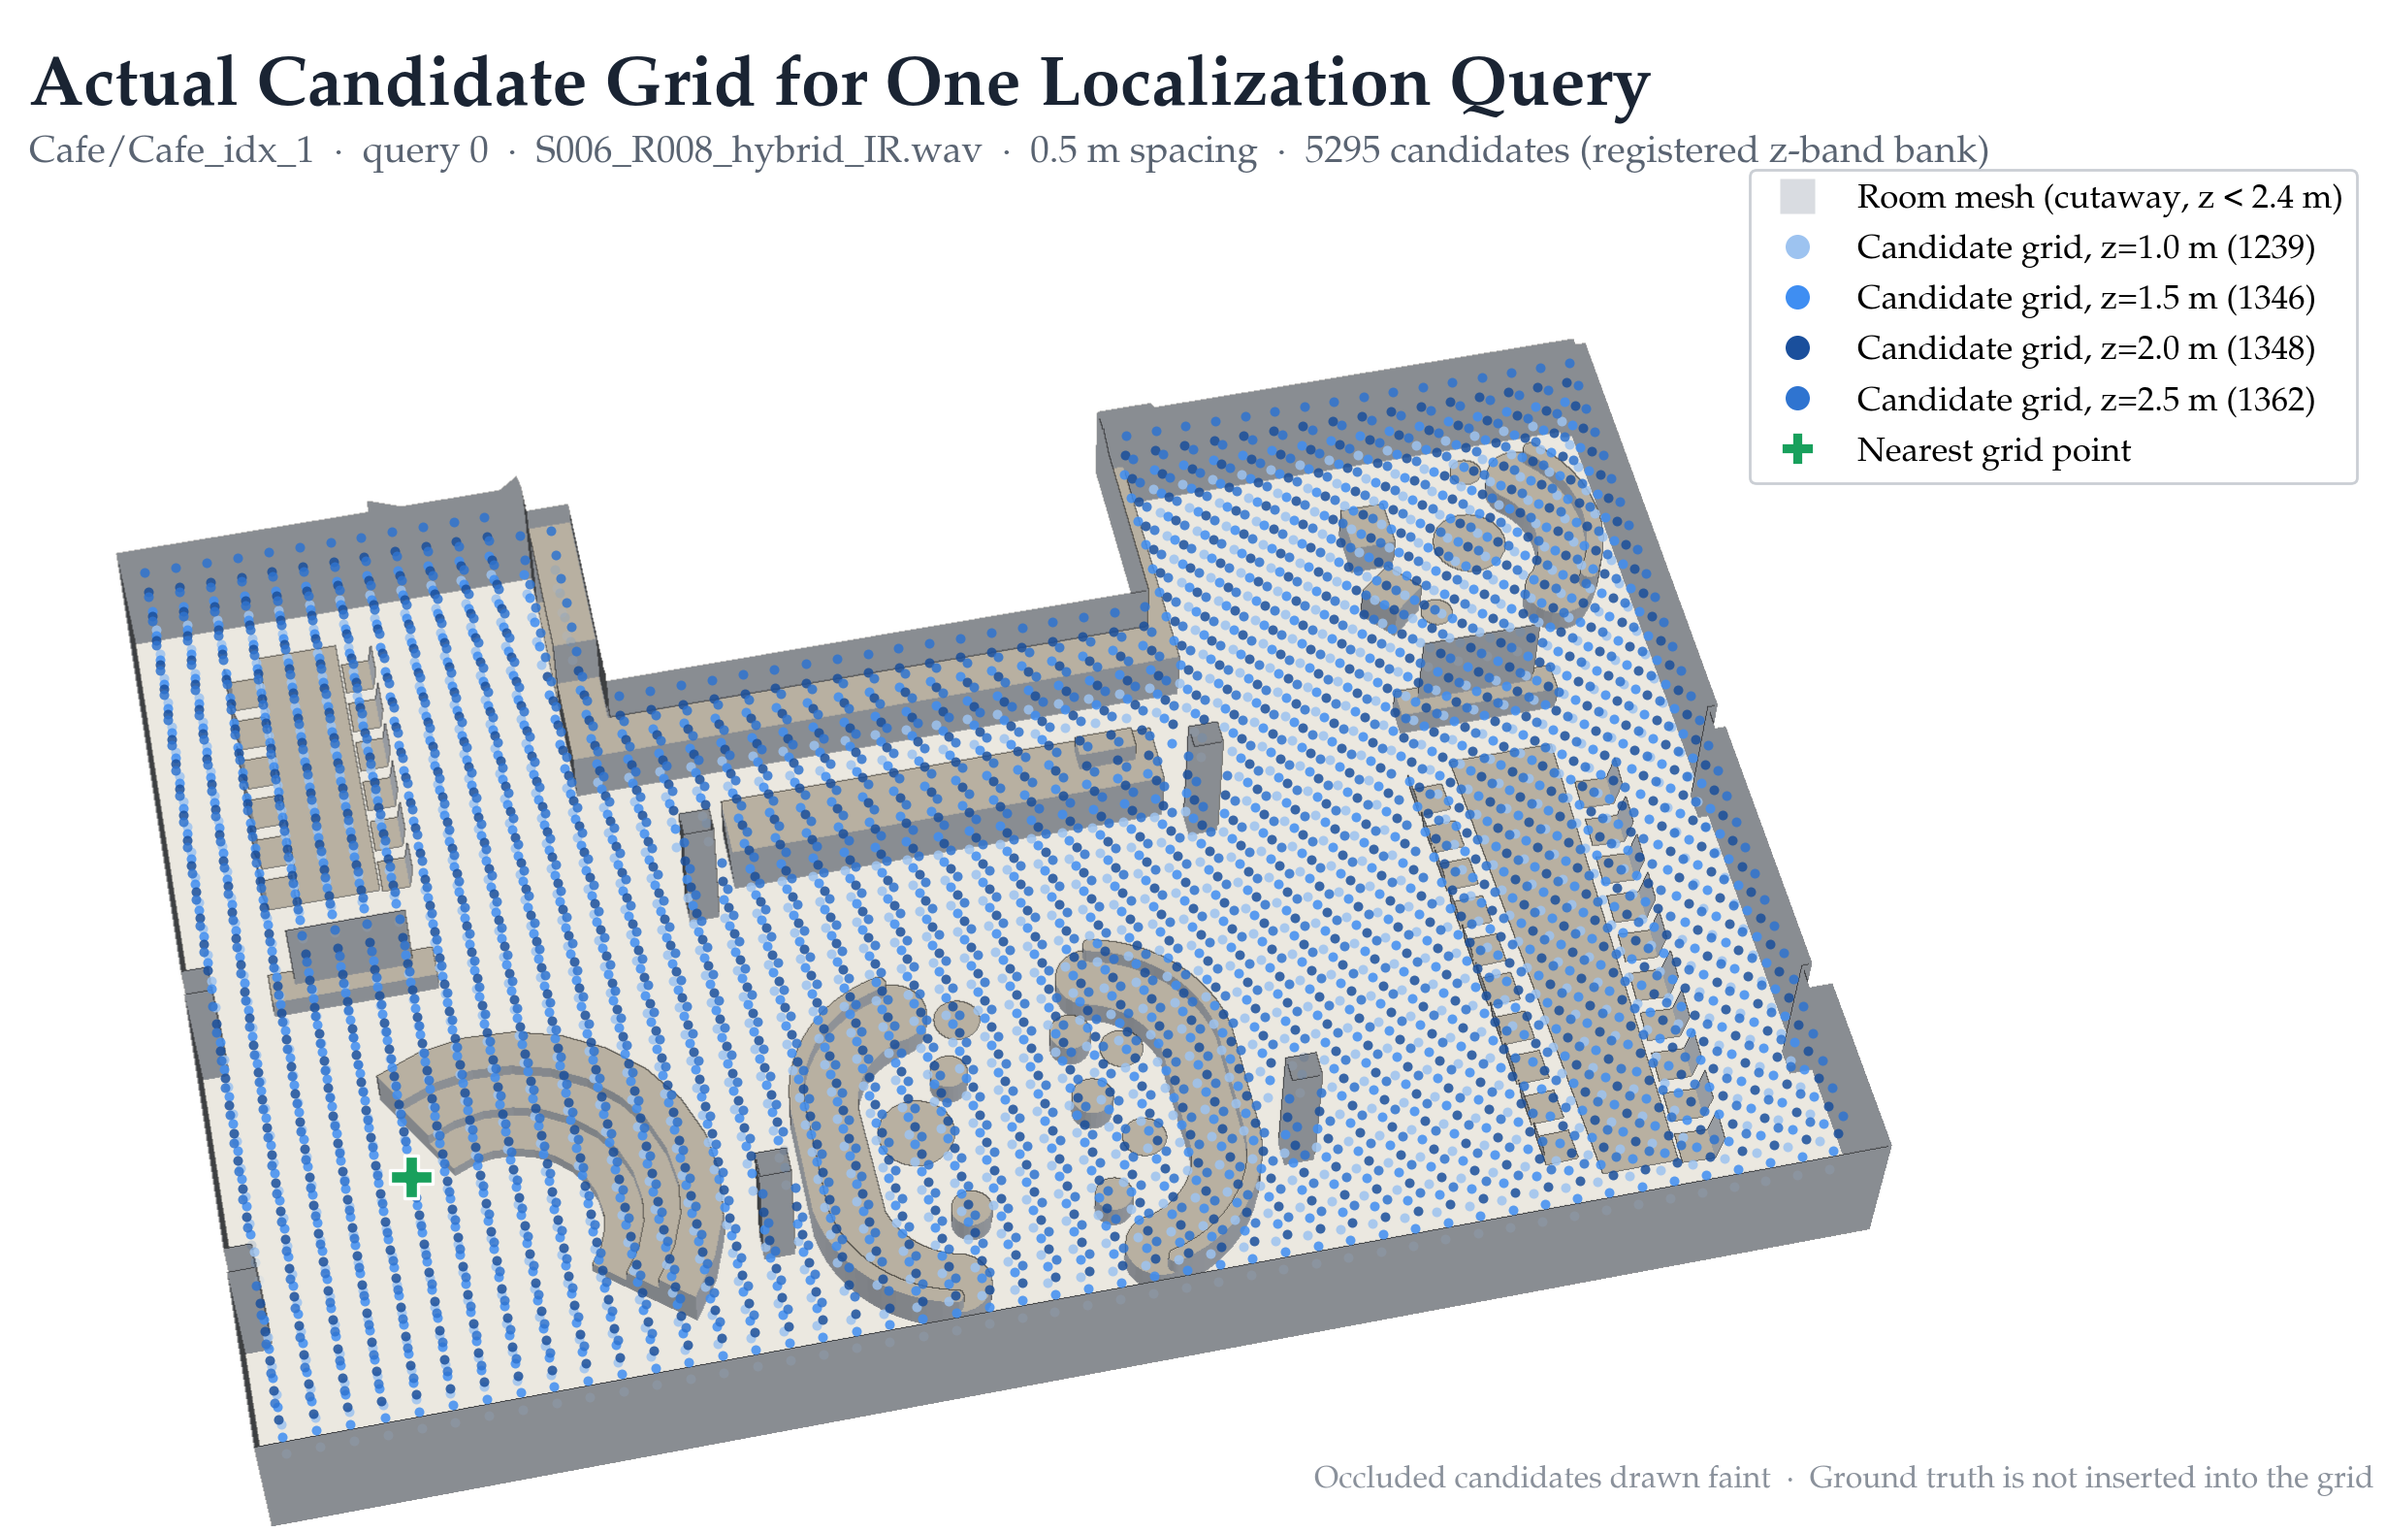
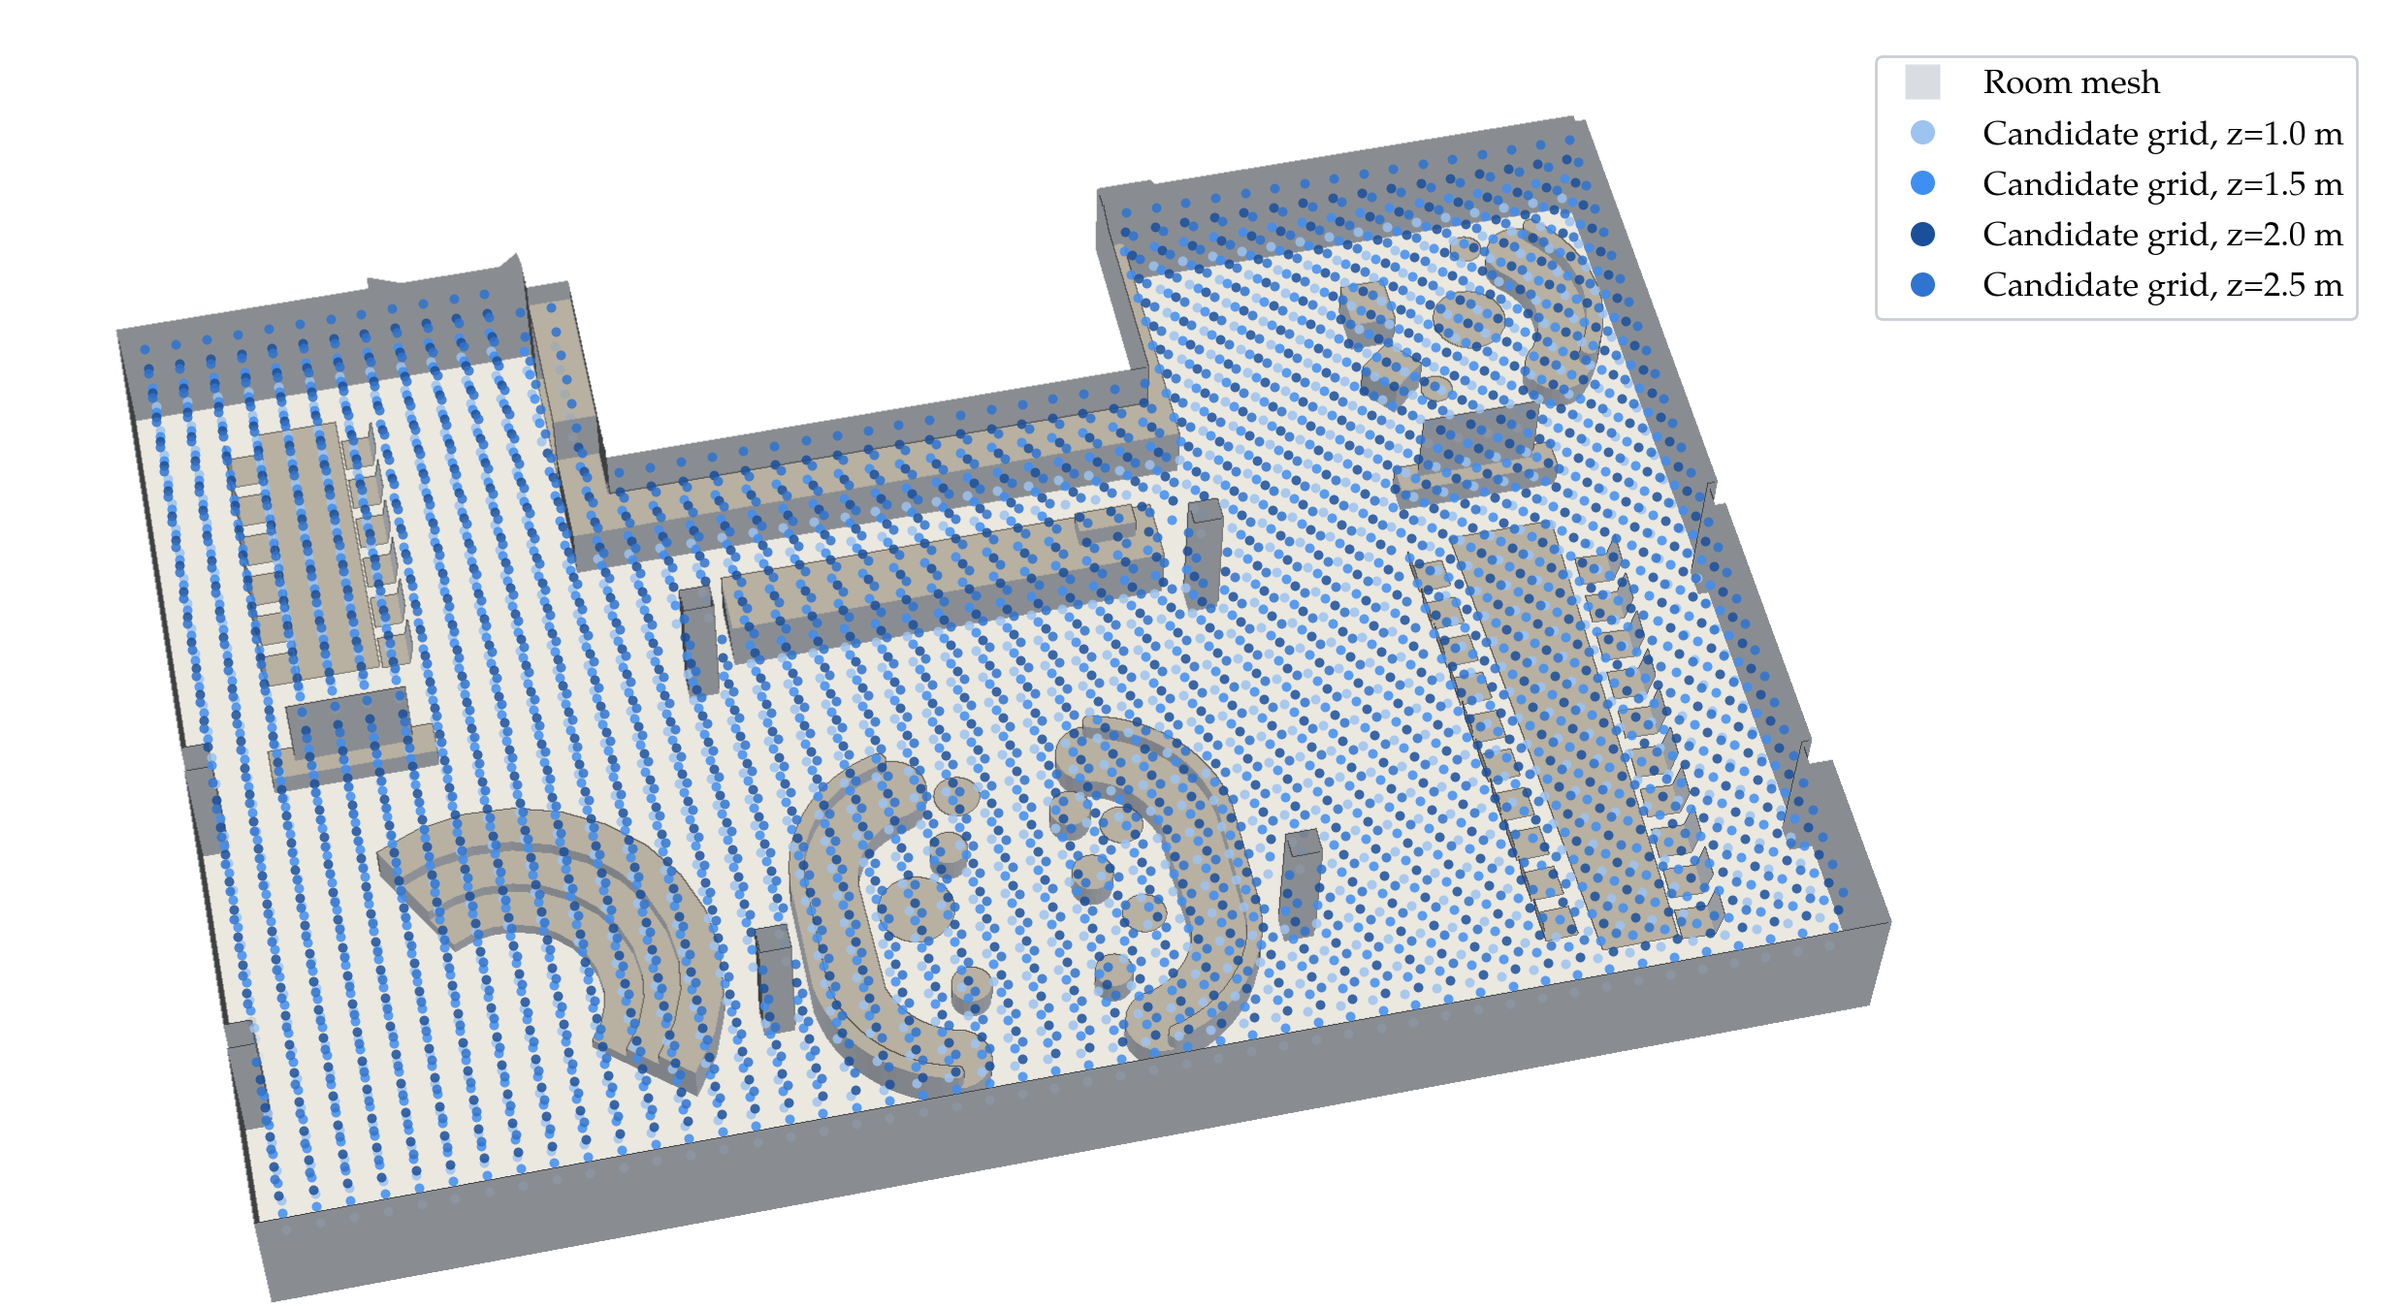
exp_22: candidate-grid figure — clean paper variant (no title/subtitle/footnote/markers; trimmed legend)

diff --git a/worklog/worklog_yixun/exp_22_loc_meshgrid_claude/candidate_grid_visualization/render_candidate_grid_paperview.py b/worklog/worklog_yixun/exp_22_loc_meshgrid_claude/candidate_grid_visualization/render_candidate_grid_paperview.py
@@ -71,8 +71,8 @@ def occluded(P, eps=0.06):
 # --- compose ---
 PAD_R = 460  # legend margin
 Wt = W + PAD_R
-fig = plt.figure(figsize=(Wt/200, (H+230)/200), dpi=200)
-ax = fig.add_axes([0, 0, W/Wt, H/(H+230)]); ax.axis('off')
+fig = plt.figure(figsize=(Wt/200, H/200), dpi=200)
+ax = fig.add_axes([0, 0, W/Wt, 1]); ax.axis('off')
 ax.imshow(img, interpolation='bilinear', zorder=1); ax.set_xlim(0,W); ax.set_ylim(H,0)
 
 zlevels = sorted(set(np.round(pts[:,2],3)))
@@ -86,16 +86,11 @@ for i in order:
     x, y, _ = project(pts[i:i+1]); zi = zlevels.index(round(float(pts[i,2]),3))
     a = 0.14 if occ[i] else 0.85
     ax.scatter(x, y, s=13, c=blues[zi], alpha=a, linewidths=0, zorder=3)
-x, y, _ = project(near[None])
-ax.scatter(x, y, marker='P', s=260, c='#18a05c', edgecolors='white', linewidths=1.2, zorder=7)
 
-fig.text(0.012, 0.965, 'Actual Candidate Grid for One Localization Query', fontsize=26, fontweight='bold', color='#1a2433', va='top')
-fig.text(0.012, 0.912, f"Cafe/Cafe_idx_1  ·  query 0  ·  S006_R008_hybrid_IR.wav  ·  0.5 m spacing  ·  {len(pts)} candidates (registered z-band bank)", fontsize=14, color='#5a6472', va='top')
-handles = [Line2D([],[], marker='s', ls='', mfc='#d9dce1', mec='none', ms=13, label='Room mesh (cutaway, z < 2.4 m)')]
-handles += [Line2D([],[], marker='o', ls='', mfc=blues[i], mec='none', ms=9, label=f"Candidate grid, z={z:.1f} m ({counts[z]})") for i, z in enumerate(zlevels)]
-handles += [Line2D([],[], marker='P', ls='', mfc='#18a05c', mec='white', ms=12, label='Nearest grid point')]
-fig.legend(handles=handles, loc='upper right', bbox_to_anchor=(0.995, 0.90), fontsize=12.5, frameon=True, framealpha=0.95, edgecolor='#c8ccd2')
-fig.text(0.995, 0.03, 'Occluded candidates drawn faint  ·  Ground truth is not inserted into the grid', ha='right', fontsize=11.5, color='#8a919b')
+
+handles = [Line2D([],[], marker='s', ls='', mfc='#d9dce1', mec='none', ms=13, label='Room mesh')]
+handles += [Line2D([],[], marker='o', ls='', mfc=blues[i], mec='none', ms=9, label=f"Candidate grid, z={z:.1f} m") for i, z in enumerate(zlevels)]
+fig.legend(handles=handles, loc='upper right', bbox_to_anchor=(0.995, 0.97), fontsize=12.5, frameon=True, framealpha=0.95, edgecolor='#c8ccd2')
 out = 'worklog/worklog_yixun/exp_22_loc_meshgrid_claude/candidate_grid_visualization/candidate_grid_case_cafe_idx_1_q0.png'
 fig.savefig(out, dpi=200, facecolor='white'); plt.close(fig)
 print(f'wrote {out}: {len(pts)} candidates at z levels {zlevels}, oracle {oracle:.3f} m')
